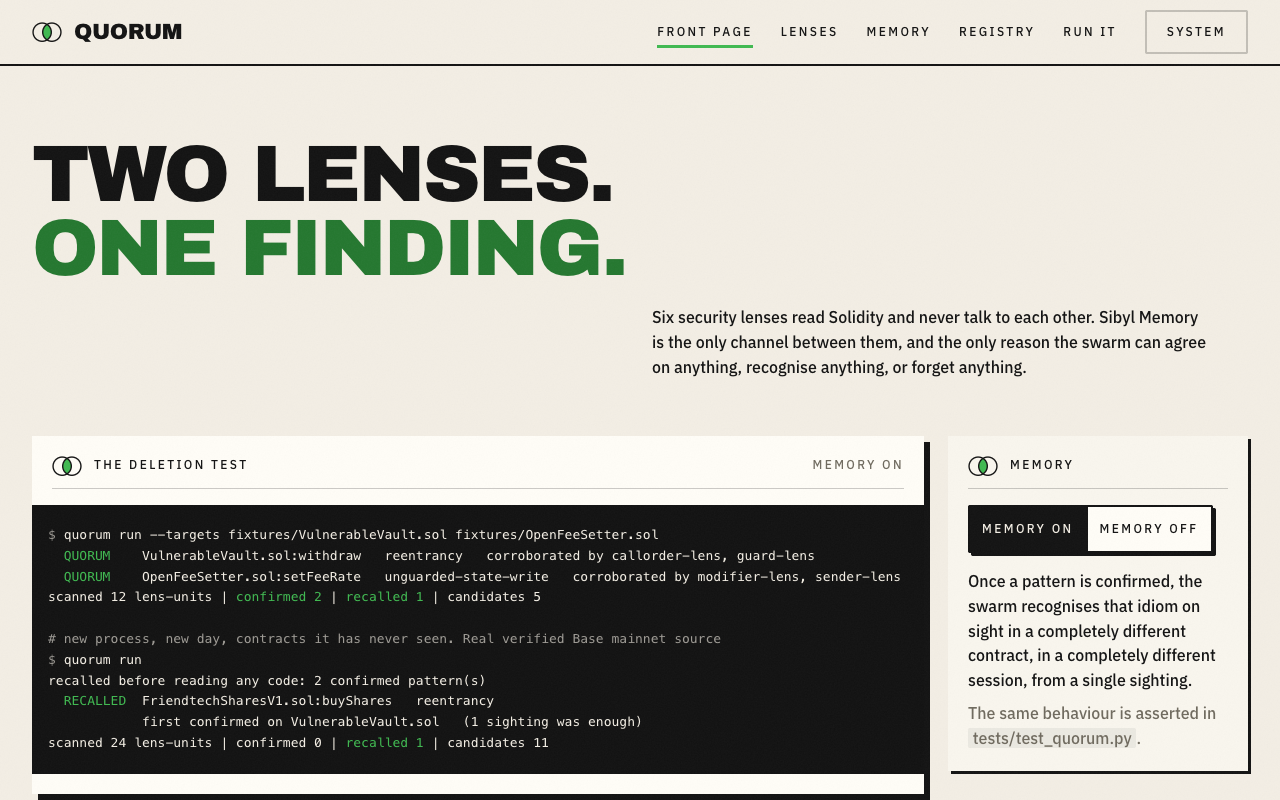
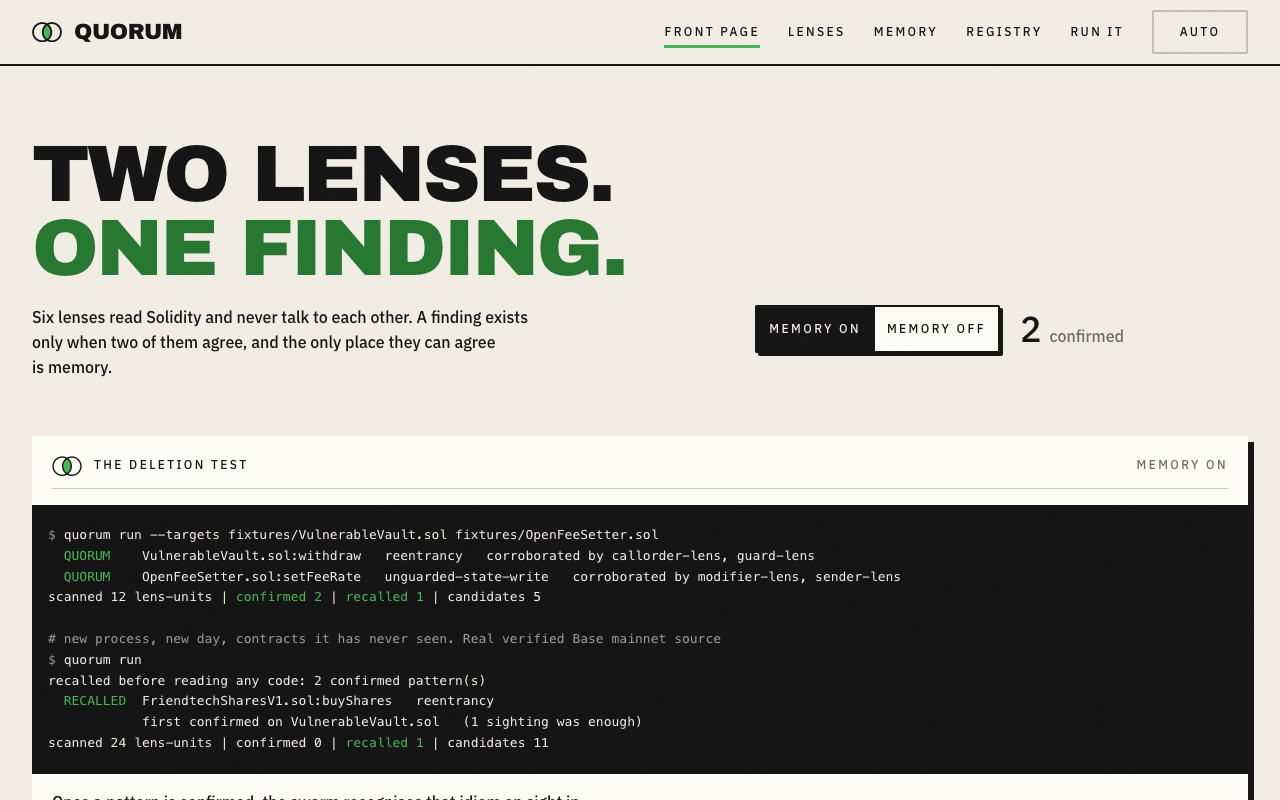
Front page: the switch sits beside the statement and answers with a live count; the terminal crossfades between its two runs; the page is cut to the deletion test, the cost and how to run it
The count beside the switch is read off the visible terminal by the script.
Both runs share one black block so nothing jumps; Reduce Motion makes both
instant. Paragraphs avoid widows, the phone nav sits 3+2, the theme control
says Auto, the wordmark's lens strokes match the type weight.

diff --git a/docs/index.html b/docs/index.html
@@ -32,7 +32,7 @@
   </div>
 </header>
 <main id="main">
-<section class="statement wrap" aria-labelledby="h-stmt"><h1 class="display" id="h-stmt">Two lenses. <br><span class="g">One finding.</span></h1><p class="lede">Six security lenses read Solidity and never talk to each other. Sibyl Memory is the only channel between them, and the only reason the swarm can agree on anything, recognise anything, or forget anything.</p></section><div class="board wrap front" id="board"><div class="band c-1-300"><section class="panel raised term" id="term" aria-labelledby="h-term"><header class="plabel"><svg class="mark" data-mark="agreed" viewBox="0 0 56 38" aria-hidden="true" focusable="false"><g clip-path="url(#lens-clip)"><circle class="vesica" cx="37" cy="19" r="17"/></g><circle cx="19" cy="19" r="17"/><circle cx="37" cy="19" r="17"/></svg><h2 id="h-term">The deletion test</h2><span class="aside"><span id="term-state">Memory on</span></span></header><pre class="terminal" id="pane-on" tabindex="0" aria-label="Terminal output, memory on"><span class="prompt">$</span> quorum run --targets fixtures/VulnerableVault.sol fixtures/OpenFeeSetter.sol
+<section class="statement wrap" aria-labelledby="h-stmt"><h1 class="display" id="h-stmt">Two lenses. <br><span class="g">One finding.</span></h1><p class="lede">Six lenses read Solidity and never talk to each other. A finding exists only when two of them agree, and the only place they can agree is memory.</p><div class="test"><div class="switch" role="group" aria-label="Memory"><button type="button" id="btn-on" aria-pressed="true" aria-controls="pane-on">Memory on</button><button type="button" id="btn-off" aria-pressed="false" aria-controls="pane-off">Memory off</button></div><p class="answer"><span class="number" id="answer-n" aria-live="polite">2</span><span class="answer-word">confirmed</span></p></div></section><div class="board wrap front" id="board"><div class="band c-1"><section class="panel raised term" id="term" aria-labelledby="h-term"><header class="plabel"><svg class="mark" data-mark="agreed" viewBox="0 0 56 38" aria-hidden="true" focusable="false"><g clip-path="url(#lens-clip)"><circle class="vesica" cx="37" cy="19" r="17"/></g><circle cx="19" cy="19" r="17"/><circle cx="37" cy="19" r="17"/></svg><h2 id="h-term">The deletion test</h2><span class="aside"><span id="term-state">Memory on</span></span></header><div class="panes"><pre class="terminal" id="pane-on" tabindex="0" aria-label="Terminal output, memory on"><span class="prompt">$</span> quorum run --targets fixtures/VulnerableVault.sol fixtures/OpenFeeSetter.sol
   <span class="hi">QUORUM</span>    VulnerableVault.sol:withdraw   reentrancy   corroborated by <span class="nb">callorder-lens</span>, <span class="nb">guard-lens</span>
   <span class="hi">QUORUM</span>    OpenFeeSetter.sol:setFeeRate   <span class="nb">unguarded-state-write</span>   corroborated by <span class="nb">modifier-lens</span>, <span class="nb">sender-lens</span>
 scanned 12 <span class="nb">lens-units</span> | <span class="hi">confirmed 2</span> | <span class="hi">recalled 1</span> | candidates 5
@@ -46,7 +46,10 @@ scanned 24 <span class="nb">lens-units</span> | confirmed 0 | <span class="hi">r
 <span class="prompt">$</span> quorum run <span class="nb">--no-memory</span>
 scanned 24 <span class="nb">lens-units</span> | confirmed 0 | recalled 0 | candidates 12
 nothing was confirmed, recalled or suppressed: without memory the swarm
-cannot corroborate, recognise or forget.</pre></section><section class="panel sw" id="sw" aria-labelledby="h-sw"><header class="plabel"><svg class="mark" data-mark="agreed" viewBox="0 0 56 38" aria-hidden="true" focusable="false"><g clip-path="url(#lens-clip)"><circle class="vesica" cx="37" cy="19" r="17"/></g><circle cx="19" cy="19" r="17"/><circle cx="37" cy="19" r="17"/></svg><h2 id="h-sw">Memory</h2></header><div class="switch" role="group" aria-label="Memory"><button type="button" id="btn-on" aria-pressed="true" aria-controls="pane-on">Memory on</button><button type="button" id="btn-off" aria-pressed="false" aria-controls="pane-off">Memory off</button></div><p id="sw-on">Once a pattern is confirmed, the swarm recognises that idiom on sight in a completely different contract, in a completely different session, from a single sighting.</p><p id="sw-off" hidden>Delete the memory layer and there is no swarm left. Just six programs that each shout once and forget.</p><p class="fine">The same behaviour is asserted in <code>tests/test_quorum.py</code>.</p></section></div><div class="band c-5-4-3"><section class="panel raised claim" id="claim" aria-labelledby="h-claim"><header class="plabel"><svg class="mark" data-mark="agreed" viewBox="0 0 56 38" aria-hidden="true" focusable="false"><g clip-path="url(#lens-clip)"><circle class="vesica" cx="37" cy="19" r="17"/></g><circle cx="19" cy="19" r="17"/><circle cx="37" cy="19" r="17"/></svg><h2 id="h-claim">The first paid claim</h2></header><p class="number">60762176</p><p>When a finding reaches quorum it stops being a private opinion. The first paid claim is on Robinhood Chain at that block, its fee burned at block 60762150; the finding itself never left the machine. The first claim of all, Base block 51138878, predates the fee.</p><a class="more" href="registry/">The registry</a></section><section class="panel lenses" id="lenses" aria-labelledby="h-lenses"><header class="plabel"><svg class="mark" data-mark="agreed" viewBox="0 0 56 38" aria-hidden="true" focusable="false"><g clip-path="url(#lens-clip)"><circle class="vesica" cx="37" cy="19" r="17"/></g><circle cx="19" cy="19" r="17"/><circle cx="37" cy="19" r="17"/></svg><h2 id="h-lenses">The lenses</h2></header><p>Six readings. Two per risk. No lens can publish a finding on its own.</p><dl class="rows pairs"><div><dt>reentrancy</dt><dd><a href="lenses/#callorder-lens">callorder-lens</a> &middot; <a href="lenses/#guard-lens">guard-lens</a></dd></div><div><dt>unguarded-state-write</dt><dd><a href="lenses/#modifier-lens">modifier-lens</a> &middot; <a href="lenses/#sender-lens">sender-lens</a></dd></div><div><dt>unsafe-math</dt><dd><a href="lenses/#unchecked-lens">unchecked-lens</a> &middot; <a href="lenses/#precision-lens">precision-lens</a></dd></div></dl><a class="more" href="lenses/">The lenses</a></section><div class="stack"><section class="panel supply" id="supply-panel" aria-labelledby="h-supply-panel"><header class="plabel"><svg class="mark" data-mark="agreed" viewBox="0 0 56 38" aria-hidden="true" focusable="false"><g clip-path="url(#lens-clip)"><circle class="vesica" cx="37" cy="19" r="17"/></g><circle cx="19" cy="19" r="17"/><circle cx="37" cy="19" r="17"/></svg><h2 id="h-supply-panel">Supply</h2></header><p class="number" id="supply-n" aria-live="polite"></p><p class="fine" id="supply" data-token="0xa6452Fd7134218f62056a304eaf501F8714A26b9">Supply is read from the token contract.</p><dl class="rows narrow"><div><dt>Contract</dt><dd class="hash"><a href="https://robinhoodchain.blockscout.com/address/0xa6452Fd7134218f62056a304eaf501F8714A26b9">0xa6452Fd7134218f62056a304eaf501F8714A26b9</a></dd></div></dl></section><section class="panel cost" id="cost" aria-labelledby="h-cost"><header class="plabel"><svg class="mark" data-mark="agreed" viewBox="0 0 56 38" aria-hidden="true" focusable="false"><g clip-path="url(#lens-clip)"><circle class="vesica" cx="37" cy="19" r="17"/></g><circle cx="19" cy="19" r="17"/><circle cx="37" cy="19" r="17"/></svg><h2 id="h-cost">Publishing costs</h2></header><p class="number">100,000</p><p>QUORUM burned per published claim, from Robinhood Chain block 60761164 (1,000 at launch). Scanning is free; publishing is not, and nobody receives the fee.</p><a class="more" href="registry/#cost">What it costs</a></section></div></div></div><div class="prevnext wrap"><span></span><a href="lenses/"><span class="lbl">Next</span>The lenses</a></div>
+cannot corroborate, recognise or forget.</pre></div><p id="sw-on">Once a pattern is confirmed, the swarm recognises that idiom on sight in a completely different contract, in a completely different session, from a single sighting.</p><p id="sw-off" hidden>Delete the memory layer and there is no swarm left. Just six programs that each shout once and forget.</p><p class="fine">The same behaviour is asserted in <code>tests/test_quorum.py</code>.</p></section></div><div class="band c-7-5"><section class="panel cost" id="cost" aria-labelledby="h-cost"><header class="plabel"><svg class="mark" data-mark="agreed" viewBox="0 0 56 38" aria-hidden="true" focusable="false"><g clip-path="url(#lens-clip)"><circle class="vesica" cx="37" cy="19" r="17"/></g><circle cx="19" cy="19" r="17"/><circle cx="37" cy="19" r="17"/></svg><h2 id="h-cost">Publishing costs</h2></header><p class="number">100,000</p><p>QUORUM burned per published claim, from Robinhood Chain block 60761164 (1,000 at launch). Scanning is free; publishing is not, and nobody receives the fee.</p><p class="fine" id="supply" data-token="0xa6452Fd7134218f62056a304eaf501F8714A26b9">Supply is read from the token contract.</p><a class="more" href="registry/">The registry</a></section><section class="panel run" id="run" aria-labelledby="h-run"><header class="plabel"><svg class="mark" data-mark="agreed" viewBox="0 0 56 38" aria-hidden="true" focusable="false"><g clip-path="url(#lens-clip)"><circle class="vesica" cx="37" cy="19" r="17"/></g><circle cx="19" cy="19" r="17"/><circle cx="37" cy="19" r="17"/></svg><h2 id="h-run">Run it</h2><span class="aside">Python 3.10 to 3.13</span></header><div class="copyable"><pre class="terminal" tabindex="0" aria-label="Install commands" data-copy=""><span class="prompt">$</span> git clone <span class="url">https://github.com/Yonkoo11/quorum</span> &amp;&amp; cd quorum
+
+<span class="prompt">$</span> python3 -m venv .venv &amp;&amp; .venv/bin/pip install -e .   <span class="cmt"># or:</span>
+<span class="prompt">$</span> uv venv --python 3.12 .venv &amp;&amp; uv pip install --python .venv/bin/python -e .</pre></div><a class="more" href="start/">Every command</a></section></div></div><div class="prevnext wrap"><span></span><a href="lenses/"><span class="lbl">Next</span>The lenses</a></div>
 </main>
 <footer class="foot wrap">
   <div class="slab"><svg class="mark" data-mark="agreed" viewBox="0 0 56 38" aria-hidden="true" focusable="false"><g clip-path="url(#lens-clip)"><circle class="vesica" cx="37" cy="19" r="17"/></g><circle cx="19" cy="19" r="17"/><circle cx="37" cy="19" r="17"/></svg><p class="sign display">The intersection is the finding.</p></div>

diff --git a/docs/quorum.css b/docs/quorum.css
@@ -89,7 +89,7 @@ pre, .hash { font-family: var(--mono); font-size: var(--t-mono); }
 code { font-family: inherit; font-size: inherit; background: var(--tint); padding: 0 .3em; border-radius: var(--radius-sm); }
 pre code { background: none; padding: 0; }
 b { font-weight: inherit; color: var(--green-text); }
-p { max-width: 60ch; }
+p { max-width: 60ch; text-wrap: pretty; }
 .fine { color: var(--muted); }
 .g { color: var(--green-text); }
 
@@ -125,6 +125,7 @@ pre.terminal:focus-visible { box-shadow: inset 0 0 0 3px var(--green); }
 /* ---------- the lens mark: one instrument, two states ---------- */
 .mark { width: 30px; height: auto; flex: none; display: block; }
 .mark circle { fill: none; stroke: currentColor; stroke-width: 2.6; }
+.brand .mark circle { stroke-width: 3.4; }  /* matches the weight of Archivo Black beside it */
 .mark .vesica { fill: var(--green); stroke: none; opacity: 1; transition: opacity var(--dur) var(--ease); }
 [data-mark="void"] .vesica, .mark.void .vesica { opacity: 0; }
 
@@ -147,7 +148,12 @@ pre.terminal:focus-visible { box-shadow: inset 0 0 0 3px var(--green); }
 .statement { display: grid; grid-template-columns: repeat(12, minmax(0, 1fr)); gap: var(--sp-5) var(--sp-6);
   padding-block: clamp(40px, 6vw, 72px) clamp(20px, 3vw, 32px); }
 .statement h1 { grid-column: 1 / -1; font-size: var(--t-display); }
-.statement .lede { grid-column: 7 / -1; max-width: 58ch; }
+.statement .lede { grid-column: 1 / 7; max-width: 52ch; }
+/* the statement carries the test: the words on the left, the switch and its answer on the right */
+.statement .test { grid-column: 8 / -1; display: flex; flex-wrap: wrap; align-items: center; gap: var(--sp-4) var(--sp-5); align-self: start; }
+.answer { display: flex; align-items: baseline; gap: var(--sp-2); margin: 0; }
+.answer .number { min-width: 1ch; font-variant-numeric: tabular-nums; }
+.answer-word { color: var(--muted); }
 
 /* ---------- the board: bands of unequal splits, panels aligned to their own height ---------- */
 .board { display: flex; flex-direction: column; gap: var(--sp-6); padding-block: var(--sp-6) var(--sp-9); }
@@ -181,6 +187,10 @@ pre.terminal .prompt, pre.terminal .cmt { color: var(--term-dim); }
 pre.terminal .hi { color: var(--green); }
 pre.terminal .nb { white-space: nowrap; }
 pre.terminal .url { overflow-wrap: anywhere; }
+/* the front terminal crossfades between its two runs; the black keeps the height of the taller one so nothing jumps */
+.panes { display: grid; background: var(--term-bg); margin-inline: calc(-1 * var(--pad)); }
+.panes pre.terminal { grid-area: 1 / 1; margin-inline: 0; transition: opacity var(--dur) var(--ease); }
+.panes pre.terminal[hidden] { display: block; opacity: 0; visibility: hidden; transition: opacity var(--dur) var(--ease), visibility 0s var(--dur); }
 .copyable { position: relative; margin-inline: calc(-1 * var(--pad)); }
 .copyable pre.terminal { margin-inline: 0; padding-top: calc(var(--tap) + var(--sp-5)); }
 .copy { position: absolute; top: var(--sp-3); right: var(--sp-3); z-index: 2; appearance: none; background: var(--term-bg); color: var(--term-fg);
@@ -259,7 +269,7 @@ body[data-memory="off"] .term-on .aside .off, body[data-memory="off"] .term-off 
 
 /* ---------- widths ---------- */
 @media (max-width: 1100px) {
-  .statement .lede { grid-column: 1 / -1; }
+  .statement .lede, .statement .test { grid-column: 1 / -1; }
   .band { grid-template-columns: repeat(2, minmax(0, 1fr)); }
   .band.c-1, .band.c-1-300 { grid-template-columns: minmax(0, 1fr); }
   .band.three > :last-child { grid-column: 1 / -1; }
@@ -276,12 +286,11 @@ body[data-memory="off"] .term-on .aside .off, body[data-memory="off"] .term-off 
   .brand { order: 1; flex: 1 1 auto; }
   .bar .theme { order: 2; }
   .bar nav { order: 3; margin-left: 0; flex: 0 0 100%; min-width: 0; }
-  .bar nav ul { margin-inline: calc(-1 * var(--sp-2)); }
+  .bar nav ul { margin-inline: calc(-1 * var(--sp-2)); display: grid; grid-template-columns: repeat(3, max-content); justify-content: start; }
   .bar nav a { padding-inline: var(--sp-2); }
   .statement { padding-block: var(--sp-7) var(--sp-4); }
   .board { gap: var(--sp-5); padding-block: var(--sp-5) var(--sp-8); }
   .band, .stack { display: contents; }
-  .front .sw { order: 1; } .front .term { order: 2; } .front .claim { order: 3; } .front .supply { order: 4; } .front .lenses { order: 5; } .front .cost { order: 6; }
   pre.terminal { padding: var(--sp-4); overflow-wrap: anywhere; }
   .copyable pre.terminal { padding-top: calc(var(--tap) + var(--sp-4)); }
   .copy { top: var(--sp-2); right: var(--sp-2); }
@@ -302,7 +311,7 @@ body[data-memory="off"] .term-on .aside .off, body[data-memory="off"] .term-off 
   .slab { padding: var(--sp-5); }
 }
 @media (prefers-reduced-motion: reduce) {
-  .mark .vesica { transition: none; }
+  .mark .vesica, .panes pre.terminal, .panes pre.terminal[hidden] { transition: none; }
 }
 @media print {
   .grain, .bar, .skip, .copy, .theme, .prevnext { display: none; }

diff --git a/docs/quorum.js b/docs/quorum.js
@@ -7,7 +7,7 @@
      A theme change is instant; never animated (hard rule 4). */
   var root = document.documentElement;
   var btn = document.getElementById("theme-toggle");
-  var LABEL = { light: "Light", dark: "Dark", system: "System" };
+  var LABEL = { light: "Light", dark: "Dark", system: "Auto" };
   var stored = null;
   try { stored = localStorage.getItem("quorum-theme"); } catch (e) {}
   var apply = function (mode) {
@@ -41,6 +41,9 @@
         swOn = document.getElementById("sw-on"),
         swOff = document.getElementById("sw-off"),
         state = document.getElementById("term-state"),
+        answer = document.getElementById("answer-n"),
+        /* the number beside the switch is read off the terminal it points at, never typed in here */
+        confirmedIn = function (pre) { var m = /confirmed (\d+)/.exec(pre.textContent); return m ? m[1] : ""; },
         /* the memory page keeps both panes in view; the switch then chooses which one is the record */
         keep = on.hasAttribute("data-keep");
     var show = function (memoryOn) {
@@ -51,6 +54,7 @@
       if (swOn) swOn.hidden = !memoryOn;
       if (swOff) swOff.hidden = memoryOn;
       if (state) state.textContent = memoryOn ? "Memory on" : "Memory off";
+      if (answer) answer.textContent = confirmedIn(memoryOn ? on : off);
       bOn.setAttribute("aria-pressed", String(memoryOn));
       bOff.setAttribute("aria-pressed", String(!memoryOn));
       document.body.setAttribute("data-memory", memoryOn ? "on" : "off");
